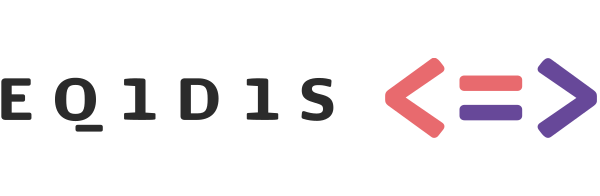
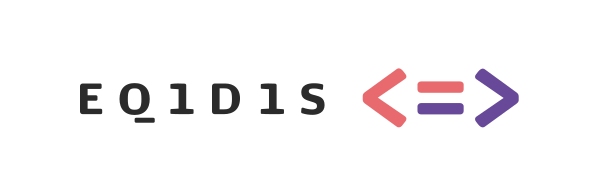
fix: give EQIDIS installer branding margins and retain path diagnostics

diff --git a/apps/desktop/README.md b/apps/desktop/README.md
@@ -46,7 +46,7 @@ The tray renderer enlarges the whale by 20% around the tile center while preserv
 
 ## Key technical decisions
 
-The original artwork lives in `resources/icon.png` and `resources/icon.svg`; platform adaptations retain the whale and gradients in `resources/icon-windows.*` and `resources/icon-macos.*`. Export each platform SVG as a transparent 1024×1024 PNG. Electron-builder generates the multi-size ICO for the Windows application, installer, and uninstaller ([Windows icon requirements](https://learn.microsoft.com/en-us/windows/apps/design/iconography/app-icon-construction)). The installation pages use matching artwork in both themes; the uninstaller's welcome and finish pages share `installer/assets/uninstaller-sidebar.png`, converted to a 164×314 BMP during preparation.
+The EQIDIS artwork lives in `resources/icon.png` and `resources/icon.svg`; platform adaptations retain the company symbol and colors in `resources/icon-windows.*` and `resources/icon-macos.*`. Export each platform SVG as a transparent 1024×1024 PNG. Run `node apps/desktop/scripts/generate-installer-brand.mjs` from the repository root to regenerate the light and dark installer wordmarks with margins. Electron-builder generates the multi-size ICO for the Windows application, installer, and uninstaller ([Windows icon requirements](https://learn.microsoft.com/en-us/windows/apps/design/iconography/app-icon-construction)). The installation pages use matching artwork in both themes; the uninstaller's welcome and finish pages share `installer/assets/uninstaller-sidebar.png`, converted to a 164×314 BMP during preparation.
 
 Shortcut overrides are stored in `app.getPath('userData')/keybindings.json`, separately from `DSH_HOME`. The main process validates and serializes changes before publishing accepted bindings. Failed reads retain the last accepted bindings and block edits, including Restore All; unreadable and future-version files remain unchanged. Development can isolate these preferences with `DSH_DESKTOP_USER_DATA_DIR`; the launcher prints its resolved path. See the [shortcut service](../../packages/client/shortcuts/README.md) for format and conflict semantics.
 

diff --git a/apps/desktop/README.zh.md b/apps/desktop/README.zh.md
@@ -46,7 +46,7 @@ Windows 在整个运行期间常驻托盘图标。悬停提示为产品名，单
 
 ## 关键技术决策
 
-设计师原稿位于 `resources/icon.png` 和 `resources/icon.svg`；平台适配保留鲸鱼与渐变，分别位于 `resources/icon-windows.*` 和 `resources/icon-macos.*`。将各平台 SVG 导出为透明的 1024×1024 PNG。electron-builder 为 Windows 应用、安装程序和卸载程序生成多尺寸 ICO（[Windows 图标要求](https://learn.microsoft.com/en-us/windows/apps/design/iconography/app-icon-construction)）。安装页面在两种主题下使用匹配的图案；卸载程序的欢迎和完成页共用 `installer/assets/uninstaller-sidebar.png`，准备阶段将其转换为 164×314 BMP。
+EQIDIS 图稿位于 `resources/icon.png` 和 `resources/icon.svg`；平台适配保留公司符号与配色，分别位于 `resources/icon-windows.*` 和 `resources/icon-macos.*`。将各平台 SVG 导出为透明的 1024×1024 PNG。在仓库根目录运行 `node apps/desktop/scripts/generate-installer-brand.mjs`，重新生成带留白的浅色和深色安装程序字标。electron-builder 为 Windows 应用、安装程序和卸载程序生成多尺寸 ICO（[Windows 图标要求](https://learn.microsoft.com/en-us/windows/apps/design/iconography/app-icon-construction)）。安装页面在两种主题下使用匹配的图案；卸载程序的欢迎和完成页共用 `installer/assets/uninstaller-sidebar.png`，准备阶段将其转换为 164×314 BMP。
 
 快捷键覆盖保存在 `app.getPath('userData')/keybindings.json`，与 `DSH_HOME` 分离。主进程校验并串行保存修改后才发布已接受键位。读取失败保留上次接受的键位并阻止编辑，包括全部恢复；不可读和未来版本的文件保持不变。开发时可通过 `DSH_DESKTOP_USER_DATA_DIR` 隔离这些偏好，启动器会输出解析后的路径。格式和冲突语义见[快捷键服务](../../packages/client/shortcuts/README.zh.md)。
 
